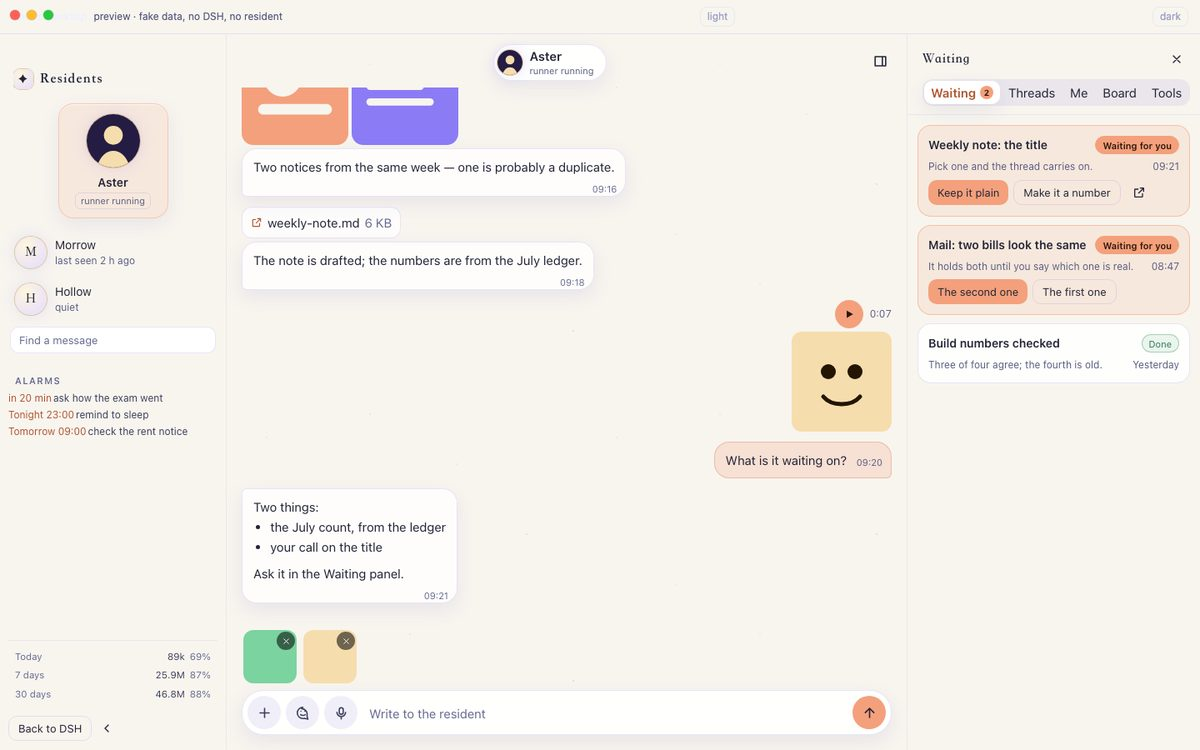
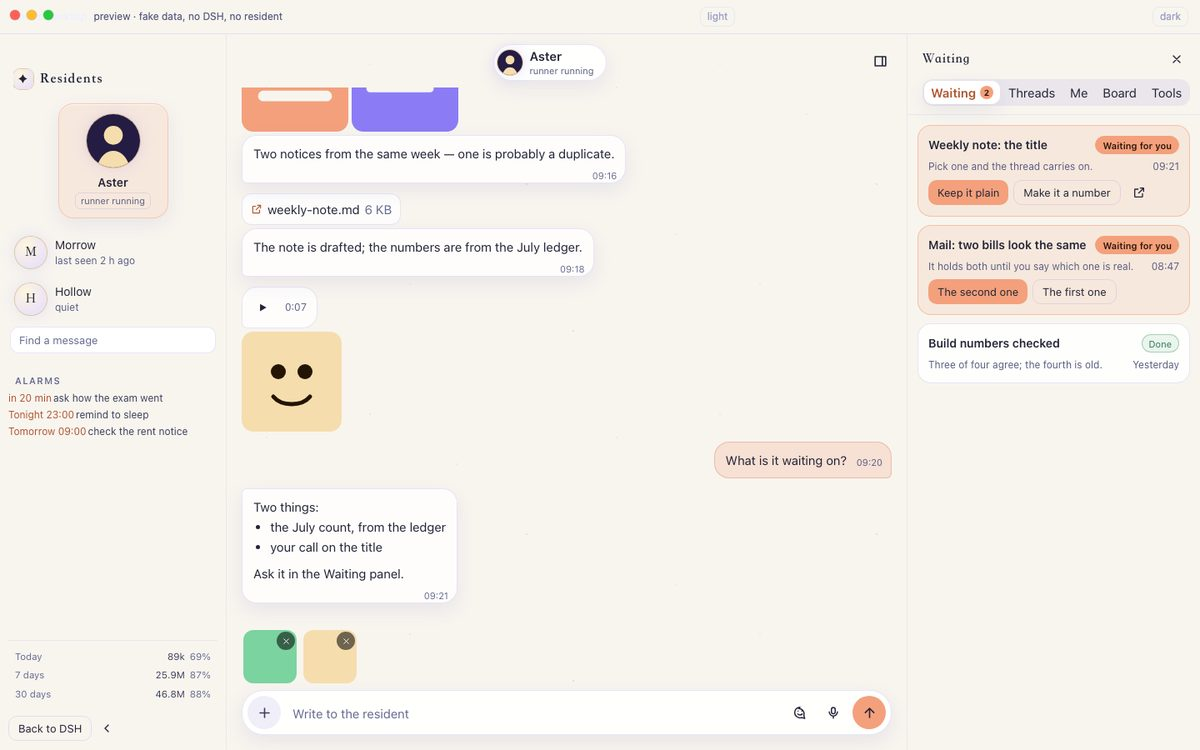
Desktop: the sticker and microphone buttons sit beside Send, with no box of their own
The two buttons were on the far side of the field. They now come after it, next to the send button, and
are plain icons rather than round pads. The earlier voice/sticker message change is reverted: a voice
note keeps its pill and a sticker its backing, on the resident's side.

npm test: 55 pass, 1 skipped.

diff --git a/packages/desktop/client.js b/packages/desktop/client.js
@@ -821,11 +821,9 @@ function Message({ line, resident }) {
   const busy = busyOf(line);
   const me = line.role === "user";
   const bubbles = me ? String(line.text || "").trim() ? [line.text] : [] : bubbleTexts(line.text);
-  const mouthful = bubbles.length > 0 || (line.pictures ?? 0) > 0 || (line.files ?? []).length > 0;
-  const onlyVoice = !mouthful && (Boolean(line.voice) || (line.stickers ?? []).length > 0);
   return (0, import_react4.createElement)(
     "div",
-    { className: `ad-row ${me || onlyVoice ? "me" : "ai"}` },
+    { className: `ad-row ${me ? "me" : "ai"}` },
     busy && (0, import_react4.createElement)(Busy, { busy }),
     line.quote && (0, import_react4.createElement)("span", { className: "ad-quote" }, line.quote.text),
     (line.pictures ?? 0) > 0 && (0, import_react4.createElement)(Pictures, { lineId: line.id, count: line.pictures, resident }),
@@ -1078,13 +1076,13 @@ function Chat() {
         { className: "ad-bar" },
         (0, import_react6.createElement)("input", { ref: picker, type: "file", accept: "image/*", multiple: true, hidden: true, onChange: attach }),
         (0, import_react6.createElement)("button", { className: "ad-round quiet", type: "button", title: t.attach, "aria-label": t.attach, onClick: () => picker.current?.click() }, (0, import_react6.createElement)(Icon, { name: "plus" })),
-        (0, import_react6.createElement)("button", { className: `ad-round quiet${openPicker ? " on" : ""}`, type: "button", title: t.stickers, "aria-label": t.stickers, onClick: openStickers }, (0, import_react6.createElement)(Icon, { name: "sticker" })),
-        (0, import_react6.createElement)("button", { className: `ad-round quiet${recording ? " rec" : ""}`, type: "button", title: recording ? t.recording : t.voice, "aria-label": recording ? t.recording : t.voice, onClick: toggleRecording }, (0, import_react6.createElement)(Icon, { name: "mic" })),
         (0, import_react6.createElement)(
           "div",
           { className: "ad-field" },
           (0, import_react6.createElement)("textarea", { rows: 1, value: text, placeholder: t.write, "aria-label": t.write, onChange: (e) => setText(e.target.value), onKeyDown: onKey })
         ),
+        (0, import_react6.createElement)("button", { className: `ad-plain${openPicker ? " on" : ""}`, type: "button", title: t.stickers, "aria-label": t.stickers, onClick: openStickers }, (0, import_react6.createElement)(Icon, { name: "sticker" })),
+        (0, import_react6.createElement)("button", { className: `ad-plain${recording ? " rec" : ""}`, type: "button", title: recording ? t.recording : t.voice, "aria-label": recording ? t.recording : t.voice, onClick: toggleRecording }, (0, import_react6.createElement)(Icon, { name: "mic" })),
         (0, import_react6.createElement)("button", { className: "ad-round", type: "button", disabled: busy || !text.trim() && !pics.length, onClick: send, "aria-label": t.send, title: t.send }, (0, import_react6.createElement)(Icon, { name: "send" }))
       )
     )
@@ -1867,6 +1865,11 @@ var CHAT = `
 .ad-round svg { width: 19px; height: 19px; }
 .ad-round:disabled { opacity: .5; cursor: default; }
 .ad-round.quiet { background: var(--line-soft); color: var(--text-2); }
+.ad-plain { flex: none; width: 34px; height: 34px; margin-bottom: 3px; border: 0; border-radius: 10px; display: grid; place-items: center; background: transparent; color: var(--text-4); }
+.ad-plain:hover { color: var(--text-1); background: var(--line-soft); }
+.ad-plain svg { width: 18px; height: 18px; }
+.ad-plain.on { color: var(--accent-text); }
+.ad-plain.rec { color: var(--err-text); animation: ad-pulse 1.4s infinite ease-in-out; }
 .ad-quote { margin: 0 0 2px; padding: 5px 10px; border-radius: 10px; background: var(--line-soft); font-size: 12px; line-height: 1.5; color: var(--text-3); max-width: 100%; white-space: pre-wrap; overflow-wrap: anywhere; }
 .ad-busy { display: flex; flex-direction: column; gap: 6px; align-items: flex-start; max-width: 100%; }
 .ad-busy > button { display: inline-flex; align-items: center; gap: 6px; min-height: 32px; padding: 0 12px 0 10px; border-radius: 999px; border: 1px dashed var(--line-dash); background: transparent; color: var(--text-3); font-size: 12px; }
@@ -1899,13 +1902,14 @@ var CHAT = `
 .ad-thumbs img { width: 100%; height: 100%; object-fit: cover; }
 .ad-thumbs .ad-x { position: absolute; top: 2px; right: 2px; width: 22px; height: 22px; border-radius: 50%; border: 0; background: rgba(0, 0, 0, .55); color: #fff; display: grid; place-items: center; }
 .ad-thumbs .ad-x svg { width: 11px; height: 11px; }
-.ad-voice { display: flex; align-items: center; gap: 8px; padding: 0; border: 0; background: none; }
+.ad-voice { display: flex; align-items: center; gap: 10px; padding: 7px 12px 7px 7px; border-radius: 18px 18px 18px 6px; border: 1px solid var(--line); background: var(--panel); }
+.ad-row.me .ad-voice { background: var(--mine); border-color: var(--mine-line); border-radius: 18px 18px 6px 18px; }
 .ad-voice-play { flex: none; width: 34px; height: 34px; border-radius: 50%; border: 0; display: grid; place-items: center; background: var(--violet); color: #fff; }
 .ad-row.me .ad-voice-play { background: var(--accent); color: var(--on-accent); }
 .ad-voice-play svg { width: 14px; height: 14px; }
 .ad-voice .len { font-size: 12px; color: var(--text-3); font-variant-numeric: tabular-nums; }
-.ad-stickers { display: flex; flex-wrap: wrap; gap: 6px; justify-content: flex-end; }
-.ad-sticker { border-radius: 12px; overflow: hidden; }
+.ad-stickers { display: flex; flex-wrap: wrap; gap: 6px; }
+.ad-sticker { border-radius: 14px; overflow: hidden; background: var(--panel); }
 .ad-sticker img, .ad-sticker video { display: block; width: 120px; height: auto; image-rendering: pixelated; }
 .ad-picker { display: flex; flex-direction: column; gap: 8px; max-height: 240px; overflow-y: auto; margin: 0 0 8px; padding: 8px; border-radius: 16px; border: 1px solid var(--line); background: var(--panel-strong); box-shadow: var(--shadow); }
 .ad-picker .ad-group-title { margin: 0 4px; }

diff --git a/packages/desktop/preview/index.html b/packages/desktop/preview/index.html
@@ -109,7 +109,7 @@ Check the second one before paying.</pre></div></div>
             </div>
             <div class="ad-bubble first"><div class="ad-md"><p>The note is drafted; the numbers are from the July ledger.</p></div><span class="ad-meta">09:18</span></div>
           </div>
-          <div class="ad-row me">
+          <div class="ad-row ai">
             <div class="ad-voice">
               <button type="button" class="ad-voice-play" aria-label="Play it" title="Play it"><svg viewBox="0 0 24 24" fill="currentColor" aria-hidden="true"><path d="M7 4.5v15l13-7.5z"/></svg></button>
               <span class="len">0:07</span>
@@ -136,9 +136,9 @@ Check the second one before paying.</pre></div></div>
           </div>
           <div class="ad-bar">
             <button type="button" class="ad-round quiet" aria-label="Send pictures" title="Send pictures"><svg viewBox="0 0 24 24" fill="none" stroke="currentColor" stroke-width="2" stroke-linecap="round" aria-hidden="true"><path d="M12 5v14M5 12h14"/></svg></button>
-            <button type="button" class="ad-round quiet" aria-label="Stickers" title="Stickers"><svg viewBox="0 0 24 24" fill="none" stroke="currentColor" stroke-width="2" stroke-linecap="round" stroke-linejoin="round" aria-hidden="true"><path d="M12 3.5a8.5 8.5 0 1 0 0 17c.8 0 1.6-.1 2.3-.4l5.2 1.4-1.4-5.2c.3-.7.4-1.5.4-2.3a8.5 8.5 0 0 0-8.5-8.5zM9 9.5h.01M15 9.5h.01M8.5 14.5c1.6 1.8 5 1.8 7 0"/></svg></button>
-            <button type="button" class="ad-round quiet" aria-label="Record a voice note" title="Record a voice note"><svg viewBox="0 0 24 24" fill="none" stroke="currentColor" stroke-width="2" stroke-linecap="round" stroke-linejoin="round" aria-hidden="true"><path d="M12 4a3 3 0 0 1 3 3v4a3 3 0 0 1-6 0V7a3 3 0 0 1 3-3zM5.5 11a6.5 6.5 0 0 0 13 0M12 17.5V21"/></svg></button>
             <div class="ad-field"><textarea rows="1" placeholder="Write to the resident" aria-label="Write to the resident"></textarea></div>
+            <button type="button" class="ad-plain" aria-label="Stickers" title="Stickers"><svg viewBox="0 0 24 24" fill="none" stroke="currentColor" stroke-width="2" stroke-linecap="round" stroke-linejoin="round" aria-hidden="true"><path d="M12 3.5a8.5 8.5 0 1 0 0 17c.8 0 1.6-.1 2.3-.4l5.2 1.4-1.4-5.2c.3-.7.4-1.5.4-2.3a8.5 8.5 0 0 0-8.5-8.5zM9 9.5h.01M15 9.5h.01M8.5 14.5c1.6 1.8 5 1.8 7 0"/></svg></button>
+            <button type="button" class="ad-plain" aria-label="Record a voice note" title="Record a voice note"><svg viewBox="0 0 24 24" fill="none" stroke="currentColor" stroke-width="2" stroke-linecap="round" stroke-linejoin="round" aria-hidden="true"><path d="M12 4a3 3 0 0 1 3 3v4a3 3 0 0 1-6 0V7a3 3 0 0 1 3-3zM5.5 11a6.5 6.5 0 0 0 13 0M12 17.5V21"/></svg></button>
             <button type="button" class="ad-round" aria-label="Send" title="Send"><svg viewBox="0 0 24 24" fill="none" stroke="currentColor" stroke-width="2" stroke-linecap="round" stroke-linejoin="round" aria-hidden="true"><path d="M12 19V5M5.5 11.5 12 5l6.5 6.5"/></svg></button>
           </div>
         </div>
